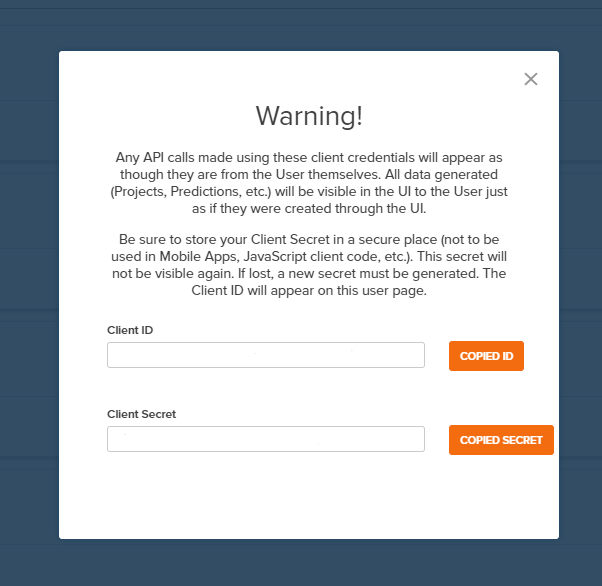
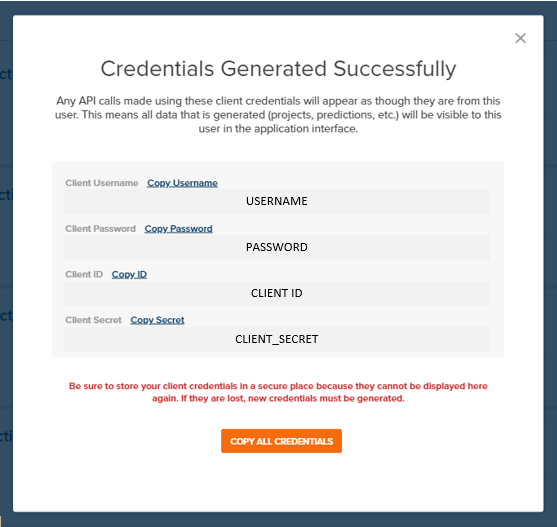
fixes for Okta authentication upgrade

diff --git a/plantpredict/oauth2.py b/plantpredict/oauth2.py
@@ -5,41 +5,12 @@ import plantpredict
 
 class OAuth2(object):
     @staticmethod
-    def token(client_id, client_secret):
-        """
-
-        :param client_id:
-        :param client_secret:
-        :return:
-        """
-        response = requests.post(
-            url=plantpredict.settings.BASE_URL + "/oauth2/token",
-            headers={"content-type": "application/x-www-form-urlencoded"},
-            data={
-                "client_id": client_id,
-                "client_secret": client_secret,
-                "grant_type": "client_credentials"
-            }
-        )
-
-        # set authentication token as global variable
-        try:
-            plantpredict.settings.TOKEN = json.loads(response.content)['access_token']
-            plantpredict.settings.REFRESH_TOKEN = json.loads(response.content)['refresh_token']
-        except KeyError:
-            pass
-
-        return response
-
-    # TODO switch this to official token code
-    @staticmethod
-    def token_okta():
+    def token():
         """
         :return:
         """
         response = requests.post(
-            #url="https://afse.okta.com/oauth2/aus3jzhulkrINTdnc356/v1/token",  # TODO switch back
-            url="https://fse.oktapreview.com/oauth2/ausfopidl3Y2kHwOn0h7/v1/token", # this is the preview URL
+            url="https://afse.okta.com/oauth2/aus3jzhulkrINTdnc356/v1/token",
             headers={"content-type": "application/x-www-form-urlencoded"},
             params={
                 "grant_type": "password",
@@ -63,29 +34,7 @@ class OAuth2(object):
     @staticmethod
     def refresh():
         response = requests.post(
-            url=plantpredict.settings.BASE_URL + "/oauth2/token",
-            headers={"content-type": "application/x-www-form-urlencoded"},
-            data={
-                "refresh_token": plantpredict.settings.REFRESH_TOKEN,
-                "grant_type": "refresh_token"
-            }
-        )
-
-        # set authentication token as global variable
-        try:
-            plantpredict.settings.TOKEN = json.loads(response.content)['access_token']
-            plantpredict.settings.REFRESH_TOKEN = json.loads(response.content)['refresh_token']
-        except KeyError:
-            pass
-
-        return response
-
-    # TODO switch this to official refresh
-    @staticmethod
-    def refresh_okta():
-        response = requests.post(
-            #url="https://afse.okta.com/oauth2/aus3jzhulkrINTdnc356/v1/token",  # TODO switch back
-            url="https://fse.oktapreview.com/oauth2/ausfopidl3Y2kHwOn0h7/v1/token", # this is the preview URL
+            url="https://afse.okta.com/oauth2/aus3jzhulkrINTdnc356/v1/token",
             headers={"content-type": "application/x-www-form-urlencoded"},
             data={
                 "refresh_token": plantpredict.settings.REFRESH_TOKEN,
@@ -107,4 +56,3 @@ class OAuth2(object):
 
     def __init__(self):
         pass
-

diff --git a/example_usage/change_weather_file.py b/example_usage/change_weather_file.py
@@ -5,7 +5,7 @@ import plantpredict
 from plantpredict.enumerations.weather_data_provider_enum import *
 
 # authenticate with client credentials and assign TOKEN variable in plantpredict/settings.py
-plantpredict.OAuth2.token(client_id=plantpredict.settings.CLIENT_ID, client_secret=plantpredict.settings.CLIENT_SECRET)
+plantpredict.OAuth2.token()
 
 # instantiate the prediction of interest specifying its ID and project ID (visible in the URL of that prediction
 # in a web browser '.../projects/{project_id}/prediction/{id}/'). do the same for the project of interest.

diff --git a/example_usage/clone_prediction.py b/example_usage/clone_prediction.py
@@ -5,7 +5,7 @@ import plantpredict
 from plantpredict.enumerations.transposition_model_enum import *
 
 # authenticate with client credentials and assign TOKEN variable in plantpredict/settings.py
-plantpredict.OAuth2.token(client_id=plantpredict.settings.CLIENT_ID, client_secret=plantpredict.settings.CLIENT_SECRET)
+plantpredict.OAuth2.token()
 
 # instantiate the prediction you wish to clone, specifying its ID and project ID (visible in the URL of that prediction
 # in a web browser '.../projects/{project_id}/prediction/{id}/').

diff --git a/example_usage/change_module_in_powerplant.py b/example_usage/change_module_in_powerplant.py
@@ -4,7 +4,7 @@ documentation located at https://plantpredict-python.readthedocs.io."""
 import plantpredict
 
 # authenticate with client credentials and assign TOKEN variable in plantpredict/settings.py
-plantpredict.OAuth2.token(client_id=plantpredict.settings.CLIENT_ID, client_secret=plantpredict.settings.CLIENT_SECRET)
+plantpredict.OAuth2.token()
 
 # instantiate a prediction, specifying its ID and project ID (visible in the URL of that prediction in a web browser
 # '.../projects/{project_id}/prediction/{id}/').

diff --git a/example_usage/create_full_prediction_from_scratch.py b/example_usage/create_full_prediction_from_scratch.py
@@ -8,7 +8,7 @@ from plantpredict.enumerations import prediction_status_enum, transposition_mode
     tracking_type_enum, backtracking_type_enum
 
 # authenticate with client credentials and assign TOKEN variable in plantpredict/settings.py
-plantpredict.OAuth2.token(client_id=plantpredict.settings.CLIENT_ID, client_secret=plantpredict.settings.CLIENT_SECRET)
+plantpredict.OAuth2.token()
 
 # Create the initial prediction, assigning it a Project using "prediction.project_id"
 # (assuming the Project already exists).

diff --git a/example_usage/generate_module_file.py b/example_usage/generate_module_file.py
@@ -5,7 +5,7 @@ import plantpredict
 from plantpredict.enumerations import cell_technology_type_enum, pv_model_type_enum, construction_type_enum
 
 # authenticate with client credentials and assign TOKEN variable in plantpredict/settings.py
-plantpredict.OAuth2.token(client_id=plantpredict.settings.CLIENT_ID, client_secret=plantpredict.settings.CLIENT_SECRET)
+plantpredict.OAuth2.token()
 
 # instantiate a local Module object
 module = plantpredict.Module()

diff --git a/example_usage/download_nodal_data.py b/example_usage/download_nodal_data.py
@@ -4,7 +4,7 @@ at https://plantpredict-python.readthedocs.io."""
 import plantpredict
 
 # authenticate with client credentials and assign TOKEN variable in plantpredict/settings.py
-plantpredict.OAuth2.token(client_id=plantpredict.settings.CLIENT_ID, client_secret=plantpredict.settings.CLIENT_SECRET)
+plantpredict.OAuth2.token()
 
 # assign the nodal for which level(s) of the power plant hierarchy you desire.
 export_options = {

diff --git a/example_usage/upload_weather_data.py b/example_usage/upload_weather_data.py
@@ -6,7 +6,7 @@ import numpy as np
 
 
 # authenticate with client credentials and assign TOKEN variable in plantpredict/settings.py
-plantpredict.OAuth2.token(client_id=plantpredict.settings.CLIENT_ID, client_secret=plantpredict.settings.CLIENT_SECRET)
+plantpredict.OAuth2.token()
 
 # load JSON file containing weather time series
 with open('example_usage_files/weather_details.json', 'rb') as json_file:

diff --git a/plantpredict/error_handlers.py b/plantpredict/error_handlers.py
@@ -37,7 +37,6 @@ def handle_error_response(function):
 
                 # if the response contains content, return it
                 if response.content:
-                    # TODO this accommodates camel case currently in prediction._wait_for_prediction, fix
                     if "Queue" in response.url:
                         return json.loads(response.content)
 

diff --git a/docs/authentication_oauth2.rst b/docs/authentication_oauth2.rst
@@ -4,11 +4,11 @@
 Authentication (OAuth2)
 #######################
 
-PlantPredict uses the `OAuth 2.0 <https://oauth.net/2/>`_ authorization protocol for administering and managing
-access tokens. If you are a first time user of the PlantPredict API, you need a set of client credentials (client
-ID and client secret). The way in which you generate/receive your client credentials depends on the scenario.
+PlantPredict uses the `Okta OpenID Connect & OAuth 2.0 API <https://developer.okta.com/docs/api/resources/oidc#token>`_
+for administering and managing access tokens. If you are a first time user of the PlantPredict API, you need a set of
+client credentials (username, password, client ID, and client secret).
 
-Step 1: Generate/receive client ID and client secret.
+Step 1: Generate/receive client credentials.
 ======================================================
 
 "I have never used PlantPredict and need an account".
@@ -34,12 +34,12 @@ for, and click on their name.
 .. image:: _images/search_for_name.png
     :align: center
 
-Click on "Generate Client Credentials" on the top right of the next page.
+Click on "Generate API Credentials" on the top right of the next page.
 
-.. image:: _images/generate_client_credentials_button.png
+.. image:: _images/generate_api_credentials_button.png
     :align: center
 
-Copy the Client ID and Client Secret to your clipboard to be pasted into :file:`plantpredict.settings` in step 2.
+Copy each credential to your clipboard to be pasted into :file:`plantpredict.settings` in step 2.
 
 .. image:: _images/client_credentials.png
     :align: center
@@ -56,15 +56,17 @@ Contact the person in your organization who is the company admin, and provide to
 Step 2: Paste your client credentials into the settings.py file.
 ==========================================================================
 
-Paste the client ID and client secret into :file:`plantpredict.settings`.
+Paste the username, password, client ID, and client secret into :file:`plantpredict.settings`.
 
 .. code-block:: python
 
-    # SETTINGS.PY FILE - MANUALLY ENTER IN CLIENT_ID AND CLIENT_SECRET.
+    # SETTINGS.PY FILE - MANUALLY ENTER IN USERNAME, PASSWORD, CLIENT_ID, AND CLIENT_SECRET.
     # TOKEN IS STORED HERE ONCE GENERATED.
 
     BASE_URL = "https://api.plantpredict.com/"
 
+    USERNAME = "INSERT USERNAME HERE"
+    PASSWORD = "INSERT PASSWORD HERE"
     CLIENT_ID = "INSERT CLIENT ID HERE"
     CLIENT_SECRET = "INSERT CLIENT SECRET HERE"
 
@@ -79,9 +81,7 @@ Execute the following code to authenticate and receive an access token.
 
     import plantpredict
 
-    plantpredict.OAuth2.token(
-        client_id=plantpredict.settings.CLIENT_ID, client_secret=plantpredict.settings.CLIENT_SECRET
-    )
+    plantpredict.OAuth2.token()
 
 This code will automatically assign the generated access token to the TOKEN variable in
 :file:`plantpredict.settings`. Every API call you make after this step will automatically reference
@@ -89,6 +89,5 @@ the access token and authenticate without any additional client-side code.
 
 .. warning::
 
-    The access token will expire after 1 hour. The current version of the SDK does not include any functionality
-    to handle refreshing the token. While this feature is under development, if your code takes longer than an
-    hour to execute, consider any novel solution to generate a new token before it expires.
+    The access token will expire after 1 hour. If your script requires more than one hour to complete, the SDK will
+    automatically generate a new token using a refresh token.
